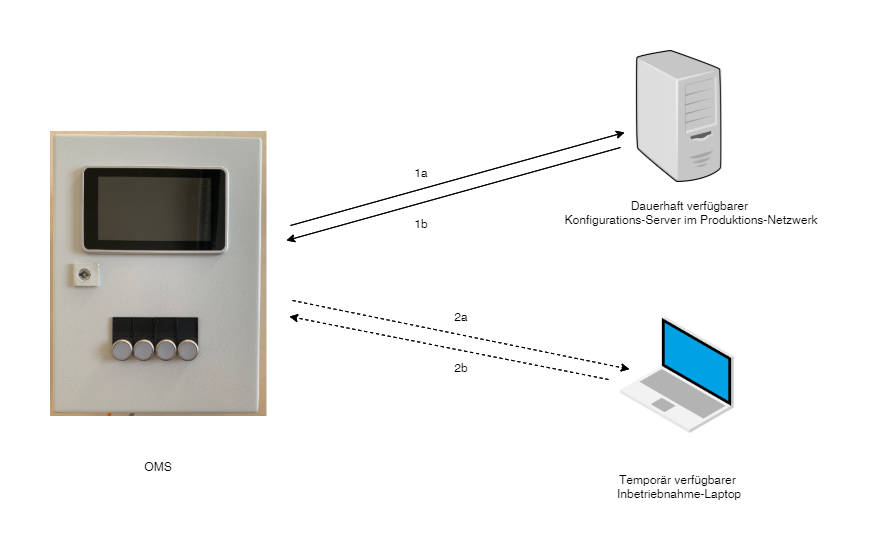
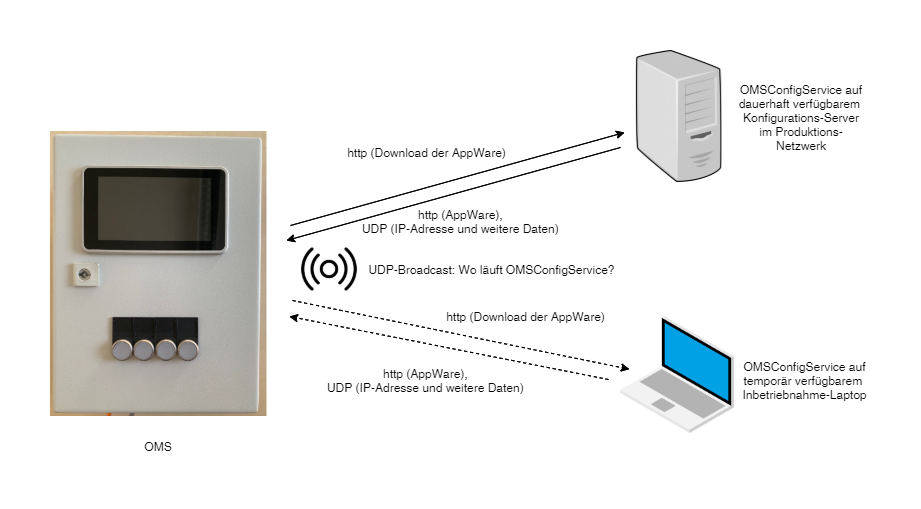
Furhter on.

diff --git a/working_principle/working_principle_main.md b/working_principle/working_principle_main.md
@@ -5,7 +5,9 @@ Die Applikation, die auf einem OMS ausgeführt wird, und die dazugehörige Konfi
 
 Das OMS verfügt nach der Basisinstallation lediglich über einen "Bootstrapper", welcher die AppWare von dem OMSConfigService bezieht. Der OMSConfigService ist in der Regel auf einem Konfigurations-Server im Produktions-Netzwerk oder einem (normalerweise nur temporär verbundenen) Inbetriebnahme-Laptop installiert.  
 
-Der Download der AppWare erfolgt über HTTP, in der Regel über die im OMS eingebaute WLAN-Netzwerkkarte oder alternativ über Kabel.
+Der Download der AppWare erfolgt über HTTP, in der Regel über die im OMS eingebaute WLAN-Netzwerkkarte oder alternativ über Kabel. Um den OMSConfigService im Netzwerk zu finden, kann der Bootstrapper ein UDP-Broadcast auslösen, der von dem Service entsprechend beantwortet wird.
+
+![Verbindung zum OMSConfigService](./OMSOverview.png?raw=true "Verbindung zu einem Server mit OMSConfigService")
 
 
 Updates der AppWare werden ebenfalls von den OMS vom OMSConfigService heruntergeladen.
@@ -34,9 +36,6 @@ Bei einem Neustart des OMS führt der Bootstrapper die folgenden Schritte durch:
 
 
 Der Bootstrapper bleibt auch nach dem "initialen" Download der AppWare aktiv. Damit sind nach einem Neustart des OMS jederzeit Updates der AppWare möglich. 
-
-
-![Bootstrapping der AppWare](./OMSOverview.png?raw=true "OMS Bootstrapping der AppWare")
 
 
 

diff --git a/README.md b/README.md
@@ -1,6 +1,9 @@
 # Dokumentation zum OMS (Order Management System) der Firma BeeWaTec
 ### *Zielgruppe: Inbetriebnahme-Personal eines FTS mit OMS*
 
+## Funktionsbeschreibung
+Das OMS dient als "Eingabe"-Terminal für Fahraufträge, der Visualierung von digitalen Ein- und Ausgängen und der Anzeige von Fehler- und Statusmeldungen. Die Oberfläche des OMS ist web-basiert, Benutzerinteraktion (z.B. Anfordern eines Fahrzeuges zum Abtransport einer Palette zu einem bestimmten Ziel) ist durch den eingebauten Touch-Screen möglich. Weiterhin sind bei einigen Ausführungen auch "Hardware"-Taster oder Sensoren vorgesehen, die FTS-Aufträge auslösen können. Die Funktionalität ist in großem Umfang durch eine Konfigurations-Software konfigurierbar. Nähere Informationen und weiterführende Links finden sich in den folgenden Dokumenten:
+
 ## [1. Funktionsprinzip](./working_principle/working_principle_main.md)
 
 ## [2. Konfiguration des OMS](./configuration/configuration_main.md)
